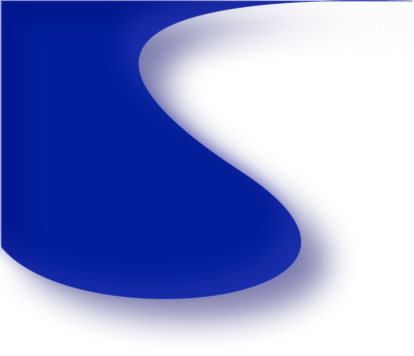
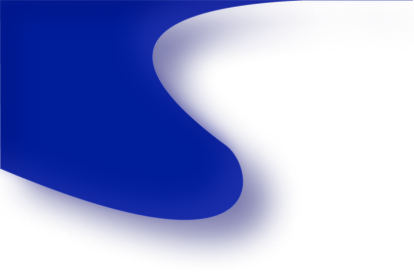
Ajuste media querys 375px

Changed region(s): [[0.0, 0.0, 1.0, 0.9242]]

diff --git a/public/css/comofunciona_novo.css b/public/css/comofunciona_novo.css
@@ -65,6 +65,8 @@ img {
   display: none;
 }
 
+/* Midias */
+
 @media (max-width: 376px) {
  
   .menu-icon {
@@ -72,7 +74,10 @@ img {
   }
 
   #header{
-    background: url("../img/FundoHeader.png");
+    background: url("../img/FundoHeader3.png") no-repeat ;
+    background-size:cover;
+    background-position: 5% -2%; 
+    background-size: 100% 106%; 
   }
 
   #header a {
@@ -83,12 +88,12 @@ img {
     display: block;
     position: absolute;
     top: 1%;
-    left: 61%;
+    left: 65%;
   }
 
   #header {
     width: 100%;
-    max-width: 319px;
+    max-width: 375px;
   }
 
   #menu {
@@ -165,7 +170,7 @@ img {
   /* info-mobile */
   .info-mobile {
     width: 100%;
-    max-width: 305px;
+    max-width: 355px;
     margin: 0 auto;
     /* border: 2px solid #fff; */
     display: flex;
@@ -177,8 +182,9 @@ img {
   #info-mobile .info-mobile-app {
     font-family: 'Nunito', sans-serif;
     font-size: 0.9rem;
-    width: 110px;
-    padding: 10px;
+    width: 100%;
+    max-width: 155px;
+    padding: 13px 0;
     border-radius: 6px;
     text-align: center;
     cursor: pointer;
@@ -190,7 +196,7 @@ img {
   }
 
   #info-mobile .info-mobile-watts {
-    width: 43px;
+    width: 50px;
     padding: 10px;
     border-radius: 6px;
     text-align: center;
@@ -203,7 +209,7 @@ img {
   }
 
   #info-mobile .info-mobile-face {
-    width: 43px;
+    width: 50px;
     padding: 10px;
     border-radius: 6px;
     text-align: center;
@@ -216,7 +222,7 @@ img {
   }
 
   #info-mobile .info-mobile-insta {
-    width: 43px;
+    width: 50px;
     padding: 10px;
     border-radius: 6px;
     text-align: center;
@@ -233,14 +239,14 @@ img {
 
   .quemsomos {
     width: 100%;
-    max-width: 319px;
+    max-width: 375px;
     margin: 58px auto;
     display:flex;
   }
 
   .quemsomos-bg {
     width: 100%;
-    max-width: 305px;
+    max-width: 355px;
     margin: 0 auto;
     padding: 15px;
     border: 1px solid rgba(255, 255, 255, 0.11);
@@ -284,13 +290,13 @@ img {
   /* proposito */
   .proposito{
     width: 100%;
-    max-width: 319px;
+    max-width: 375px;
     margin: 58px auto;
   }
 
   .proposito-bg{
     width: 100%;
-    max-width: 305px;
+    max-width: 355px;
     margin: 0 auto;
     padding: 15px;
   }
@@ -321,7 +327,7 @@ img {
 
   .regras-bg{
     width: 100%;
-    max-width: 305px;
+    max-width: 355px;
     margin: 0 auto;
     padding: 15px;
     border: 1px solid rgba(255, 255, 255, 0.11);
@@ -346,7 +352,7 @@ img {
 
   #video-cf{
     width:100%;
-    max-width:375px; 
+    max-width:370px; 
     margin-top: 20px;
     border-radius: 6px;
     border: 2px solid rgba(255, 255, 255, 0.11);
@@ -368,9 +374,14 @@ img {
     margin: 58px auto;
   }
 
+  .duvidas{
+    background: url('../img/fundoDuvudas.png')no-repeat center;
+    background-size: cover;
+  }
+
   .duvidas-bg{
     width: 100%;
-    max-width: 305px;
+    max-width: 355px;
     margin: 0 auto;
     padding: 15px;
   }
@@ -400,7 +411,7 @@ img {
 
   .duvida-botoes-contatos{
      width: 100%;
-     max-width: 305px;
+     max-width: 355px;
      display:flex;
      flex-wrap: wrap;
      justify-content: space-around;
@@ -408,7 +419,7 @@ img {
   }
 
   .duvida-botoes-contatos div{
-    width: 43px;
+    width: 50px;
     padding: 10px;
     border-radius: 6px;
     text-align: center;
@@ -433,10 +444,14 @@ img {
     max-width: 375px;
     margin: 50px auto;
   }
+  .termos-bg{
+    background: url('../img/FundoRegras2.png') no-repeat;
+    background-size: cover;
+  }
 
   .termos-bg{
     width: 100%;
-    max-width: 305px;
+    max-width: 355px;
     margin: 0 auto;
     padding: 15px;
     border: 1px solid rgba(255, 255, 255, 0.11);
@@ -471,7 +486,7 @@ img {
 
   .footer-bg{
     width: 100%;
-    max-width: 305px;
+    max-width: 355px;
     margin: 0 auto;
     padding: 15px;
     border: 1px solid rgba(255, 255, 255, 0.11);
